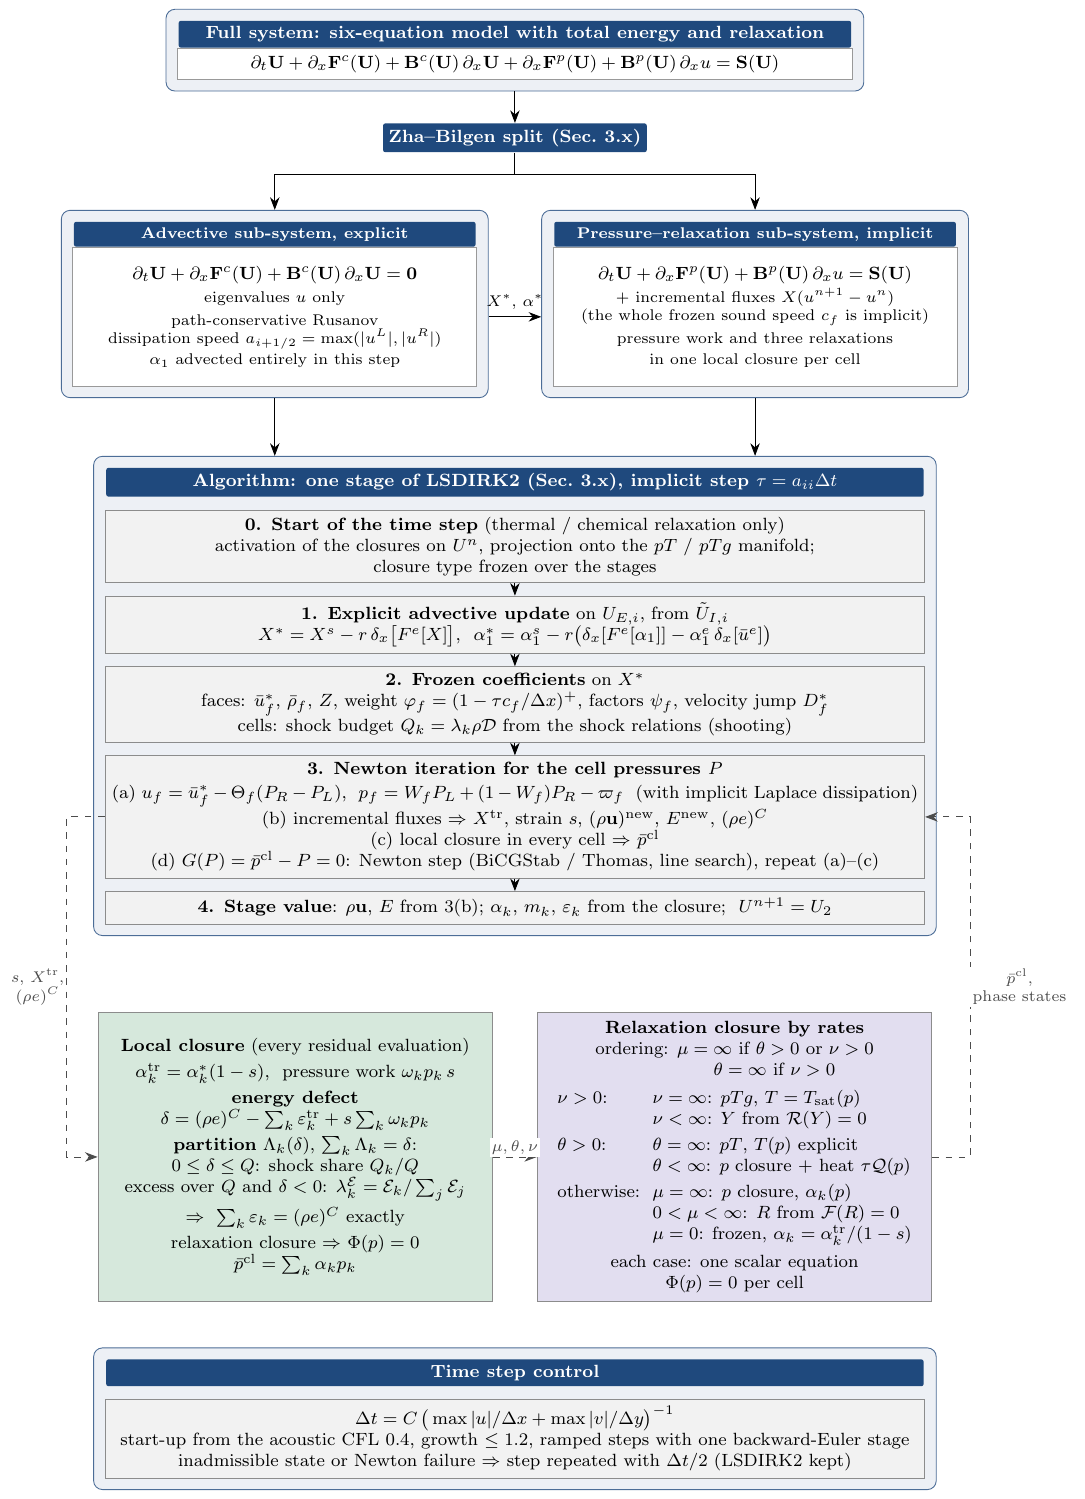
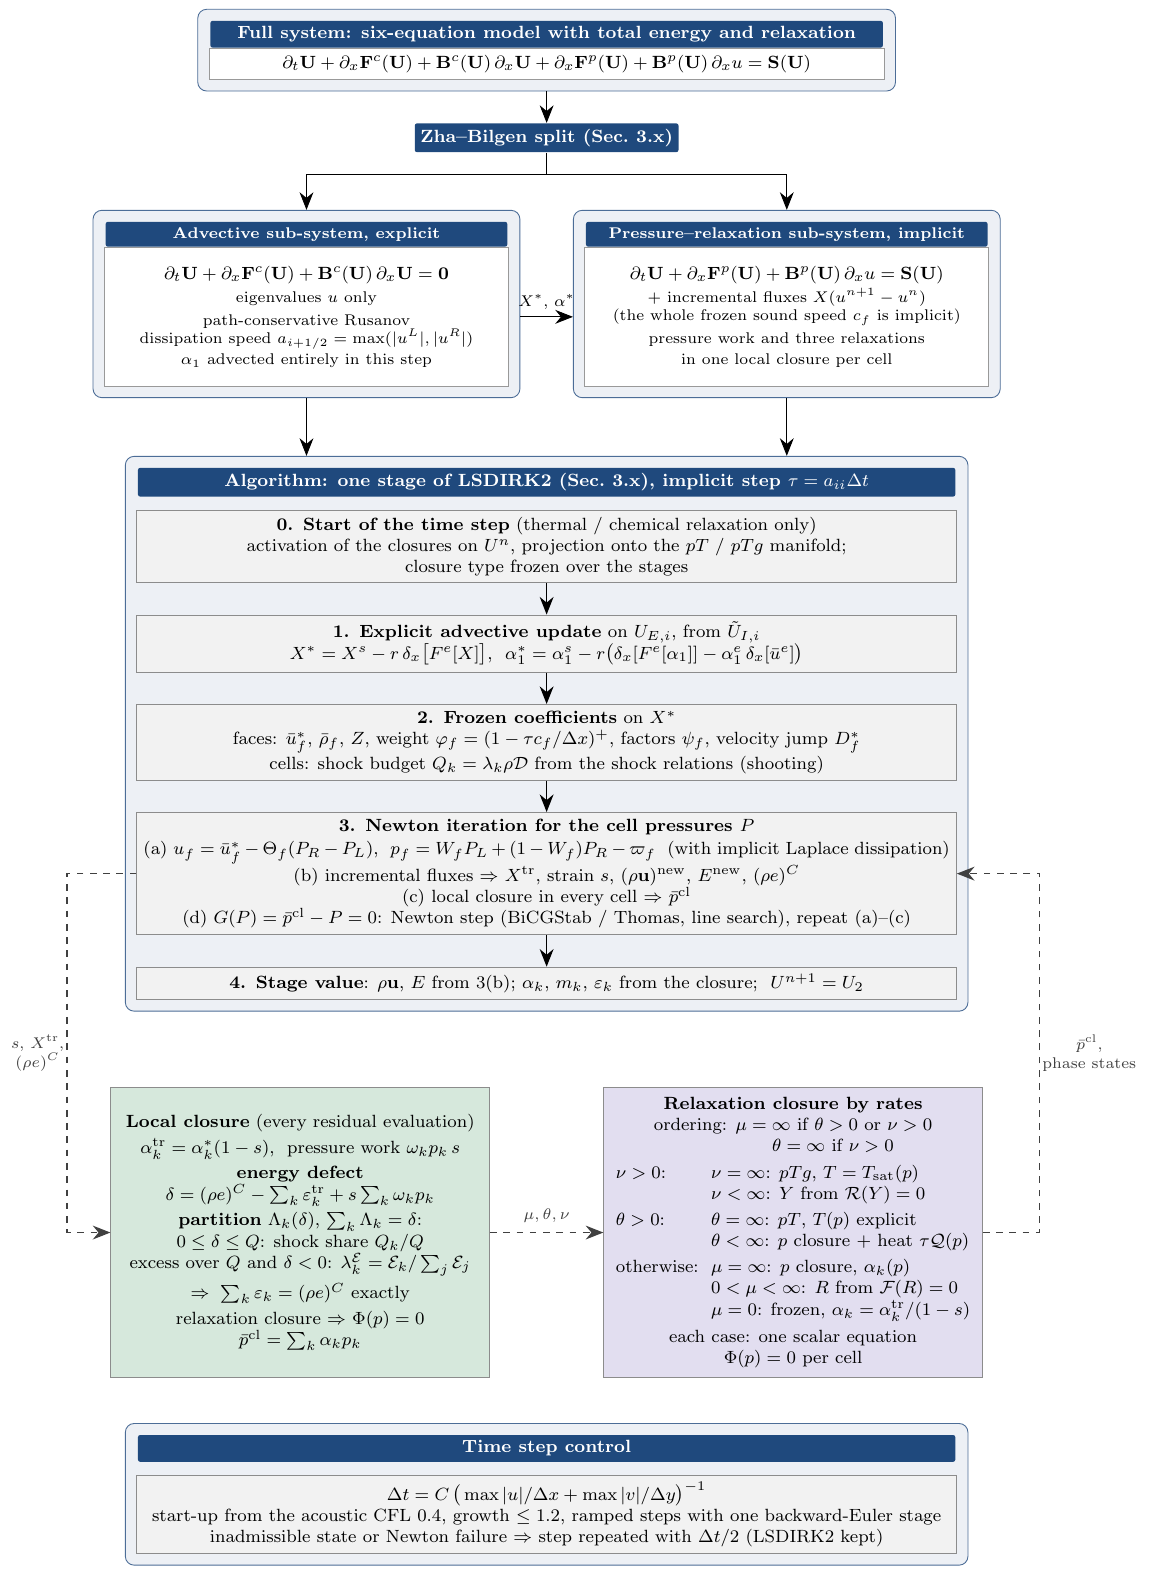
Flowchart: larger arrowheads, more space between the steps and between the closure boxes
Claude-Session: https://claude.ai/code/session_01S1n65tsz3avypBq5vvRFNT

diff --git a/paper/figures/scheme.tex b/paper/figures/scheme.tex
@@ -1,13 +1,13 @@
 % Flowchart of the semi-implicit scheme (Sec. 3). Needs: tikz with the libraries positioning, arrows.meta, calc, fit, backgrounds.
 \begin{tikzpicture}[
-  font=\fontsize{8pt}{9.6pt}\selectfont, >={Stealth[length=2mm]}, node distance=4mm,
+  font=\fontsize{8pt}{9.6pt}\selectfont, >={Stealth[length=2.8mm,width=2.2mm]}, node distance=4mm,
   hdr/.style={fill=hdrblue, text=white, font=\fontsize{8pt}{9.6pt}\selectfont\bfseries, inner sep=2.5pt, rounded corners=1pt},
   eq/.style={draw=black!40, fill=white, inner sep=3pt, align=flush center},
   outer/.style={draw=hdrblue!80, fill=hdrblue!8, rounded corners=4pt, inner sep=5pt},
   step/.style={draw=black!45, fill=black!5, align=flush center, inner sep=3pt, text width=#1},
   step/.default=12.8cm,
   note/.style={align=flush center, font=\fontsize{7pt}{8.4pt}\selectfont},
-  dashedarrow/.style={->, dashed, black!70},
+  dashedarrow/.style={->, dashed, semithick, black!75},
 ]
 \definecolor{hdrblue}{RGB}{31,73,125}
 \definecolor{clgreen}{RGB}{214,232,220}
@@ -55,30 +55,30 @@
 \node[step, below=2mm of alh] (s0)
   {\textbf{0. Start of the time step} (thermal / chemical relaxation only)\\
    activation of the closures on $U^n$, projection onto the $pT$ / $pTg$ manifold;\\ closure type frozen over the stages};
-\node[step, below=2mm of s0] (s1)
+\node[step, below=5mm of s0] (s1)
   {\textbf{1. Explicit advective update} on $U_{E,i}$, from $\tilde U_{I,i}$\\
    $X^*=X^s-r\,\delta_x\big[F^e[X]\big]$, \ $\alpha^*_1=\alpha^s_1-r\big(\delta_x[F^e[\alpha_1]]-\alpha^e_1\,\delta_x[\bar u^e]\big)$};
-\node[step, below=2mm of s1] (s2)
+\node[step, below=5mm of s1] (s2)
   {\textbf{2. Frozen coefficients} on $X^*$\\
    faces: $\bar u^*_f$, $\bar\rho_f$, $Z$, weight $\varphi_f=(1-\tau c_f/\Delta x)^+$, factors $\psi_f$, velocity jump $D^*_f$\\
    cells: shock budget $Q_k=\lambda_k\rho\mathcal D$ from the shock relations (shooting)};
-\node[step, below=2mm of s2] (s3)
+\node[step, below=5mm of s2] (s3)
   {\textbf{3. Newton iteration for the cell pressures $P$}\\[1pt]
    (a) $u_f=\bar u^*_f-\Theta_f(P_R-P_L)$, \ $p_f=W_fP_L+(1-W_f)P_R-\varpi_f$ \ (with implicit Laplace dissipation)\\
    (b) incremental fluxes $\Rightarrow$ $X^{\rm tr}$, strain $s$, $(\rho\mathbf u)^{\rm new}$, $E^{\rm new}$, $(\rho e)^C$\\
    (c) local closure in every cell $\Rightarrow$ $\bar p^{\rm cl}$ \\
    (d) $G(P)=\bar p^{\rm cl}-P=0$: Newton step (BiCGStab / Thomas, line search), repeat (a)--(c)};
-\node[step, below=2mm of s3] (s4)
+\node[step, below=5mm of s3] (s4)
   {\textbf{4. Stage value}: $\rho\mathbf u$, $E$ from 3(b); $\alpha_k$, $m_k$, $\varepsilon_k$ from the closure; \ $U^{n+1}=U_2$};
 \begin{scope}[on background layer]
   \node[outer, fit=(alh)(s0)(s1)(s2)(s3)(s4)] (algbox) {};
 \end{scope}
 \draw[->] (advbox.south) -- (advbox.south |- algbox.north);
 \draw[->] (prsbox.south) -- (prsbox.south |- algbox.north);
-\draw[->] (s0) -- (s1); \draw[->] (s1) -- (s2); \draw[->] (s2) -- (s3); \draw[->] (s3) -- (s4);
+\draw[->, semithick] (s0) -- (s1); \draw[->, semithick] (s1) -- (s2); \draw[->, semithick] (s2) -- (s3); \draw[->, semithick] (s3) -- (s4);
 
 % ----------------------------------------------------------------- local closure with energy partition
-\node[step=6.05cm, fill=clgreen, draw=black!45, below left=12mm and 3.5mm of algbox.south, anchor=north east, minimum height=4.6cm] (cl)
+\node[step=5.8cm, fill=clgreen, draw=black!45, below left=12mm and 9mm of algbox.south, anchor=north east, minimum height=4.6cm] (cl)
   {\textbf{Local closure} (every residual evaluation)\\[2pt]
    $\alpha^{\rm tr}_k=\alpha^*_k(1-s)$, \ pressure work $\omega_kp_k\,s$\\[2pt]
    \textbf{energy defect}\\
@@ -90,7 +90,7 @@
    relaxation closure $\Rightarrow$ $\Phi(p)=0$\\ $\bar p^{\rm cl}=\sum_k\alpha_kp_k$};
 
 % ----------------------------------------------------------------- relaxation closures by rates
-\node[step=6.05cm, fill=rlpurple, draw=black!45, below right=12mm and 3.5mm of algbox.south, anchor=north west, minimum height=4.6cm] (rl)
+\node[step=5.8cm, fill=rlpurple, draw=black!45, below right=12mm and 9mm of algbox.south, anchor=north west, minimum height=4.6cm] (rl)
   {\textbf{Relaxation closure by rates}\\
    ordering: $\mu=\infty$ if $\theta>0$ or $\nu>0$\\ \phantom{ordering:} $\theta=\infty$ if $\nu>0$\\[3pt]
    \begin{tabular}{@{}l@{\ \ }l@{}}
@@ -104,9 +104,9 @@
    \end{tabular}\\[3pt]
    each case: one scalar equation\\ $\Phi(p)=0$ per cell};
 
-\draw[dashedarrow] (s3.west) -- ++(-6mm,0) |- node[pos=0.25, left, note, fill=white, inner sep=1pt] {$s$, $X^{\rm tr}$,\\$(\rho e)^C$} (cl.west);
-\draw[dashedarrow] (cl.east) -- node[above, note, fill=white, inner sep=1pt] {$\mu,\theta,\nu$} (rl.west);
-\draw[dashedarrow] (rl.east) -- ++(6mm,0) |- node[pos=0.25, right, note, fill=white, inner sep=1pt] {$\bar p^{\rm cl}$,\\phase states} (s3.east);
+\draw[dashedarrow] (s3.west) -- ++(-11mm,0) |- node[pos=0.25, left, note, fill=white, inner sep=1pt] {$s$, $X^{\rm tr}$,\\$(\rho e)^C$} (cl.west);
+\draw[dashedarrow] (cl.east) -- node[above=1pt, note] {$\mu,\theta,\nu$} (rl.west);
+\draw[dashedarrow] (rl.east) -- ++(9mm,0) |- node[pos=0.25, right, note, fill=white, inner sep=1pt] {$\bar p^{\rm cl}$,\\phase states} (s3.east);
 
 % ----------------------------------------------------------------- time step control
 \node[hdr, below=9mm of rl.south -| algbox.south, anchor=north, text width=12.8cm, align=flush center] (ctlh) {Time step control};
